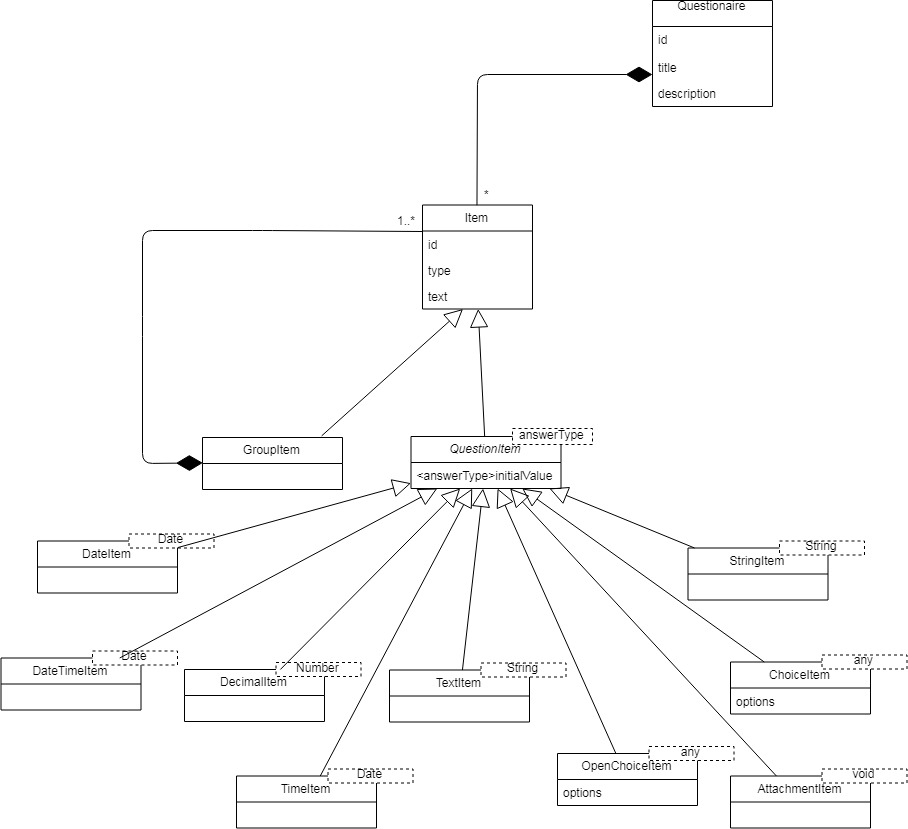
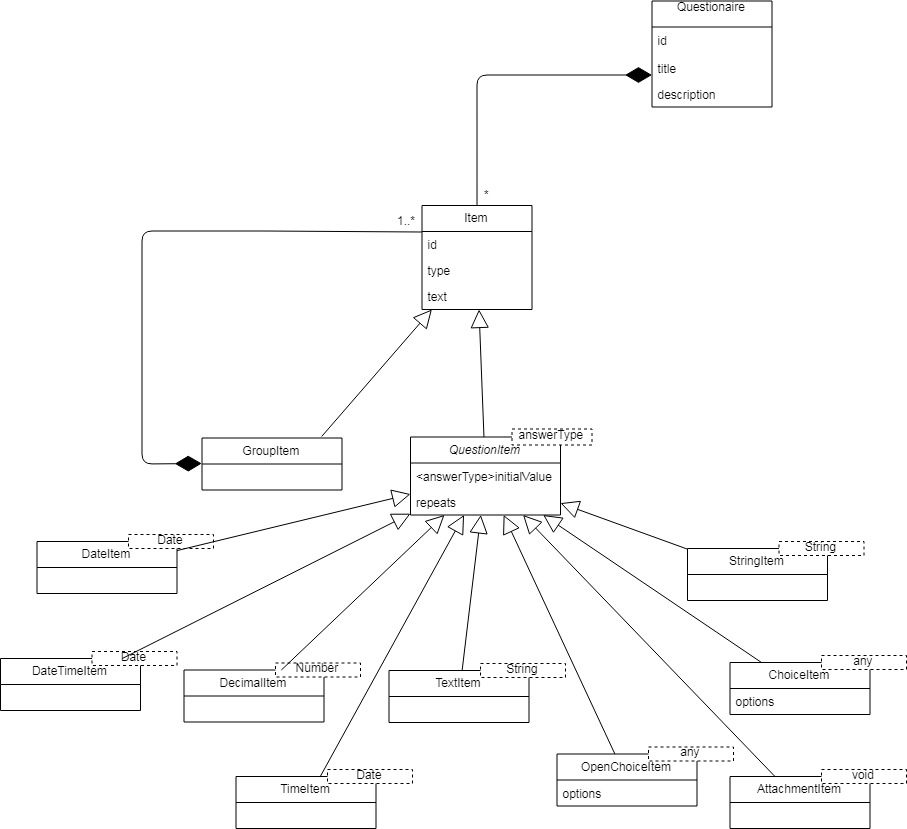
fix: uml model and models were fixed
added field "repeats"

task ARTFORMS-35

diff --git a/packages/models/src/models/questionItems/questionItem.ts b/packages/models/src/models/questionItems/questionItem.ts
@@ -2,14 +2,22 @@ import IQuestionItem from "../../interfaces/questionItems/IQuestionItem";
 import { Item } from "../..";
 import { ANSWER_TYPE } from "../../constants/itemTypes";
 import { ICollection } from "../../interfaces/ICollection";
+import { IItem } from "../../interfaces/IItem";
 
 export abstract class QuestionItem<T> extends Item implements IQuestionItem<T> {
     initialValue?: T;
     type!: ANSWER_TYPE;
+    repeats: boolean;
 
     constructor(item: Partial<Omit<IQuestionItem<T>, 'type'>> | undefined, parent?: ICollection<IQuestionItem<T>>) {
         super(item, parent);
         this.initialValue = item && item.initialValue;
+        this.repeats = !!(item && item.repeats);
+    }
+
+    updateItem(item: IItem) {
+        super.updateItem(item);
+        this.repeats = (item as IQuestionItem<T>).repeats;
     }
 }
 

diff --git a/packages/models/src/interfaces/questionItems/IQuestionItem.ts b/packages/models/src/interfaces/questionItems/IQuestionItem.ts
@@ -5,6 +5,7 @@ import { IItem } from '../IItem';
 export interface IQuestionItem<T> extends IItem {
     type: ANSWER_TYPE;
     initialValue?: T;
+    repeats: boolean;
 }
 
 
